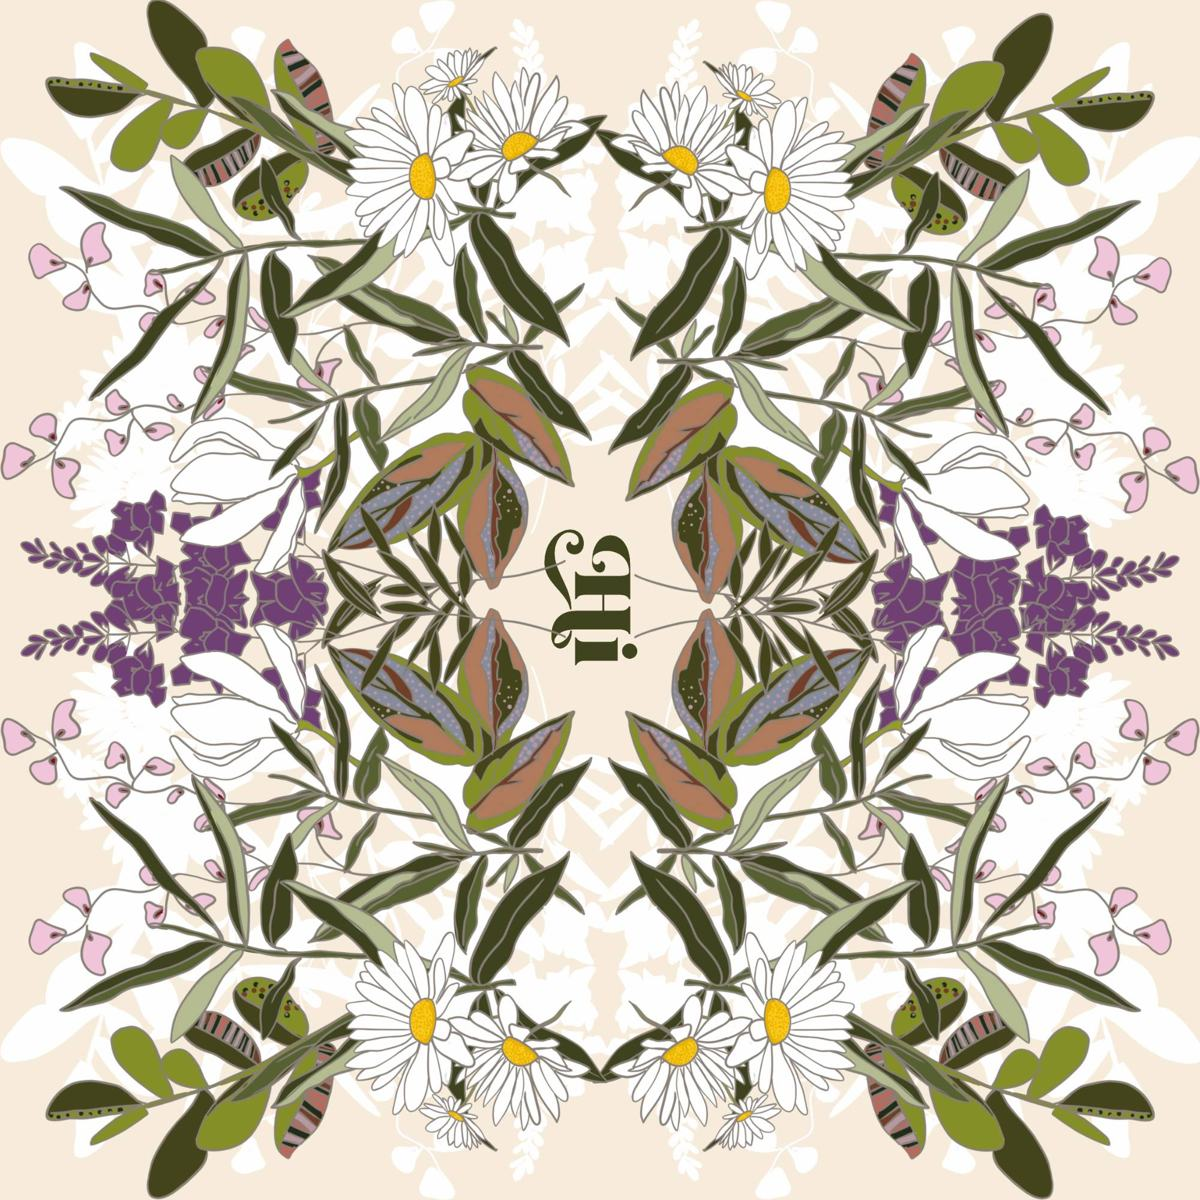
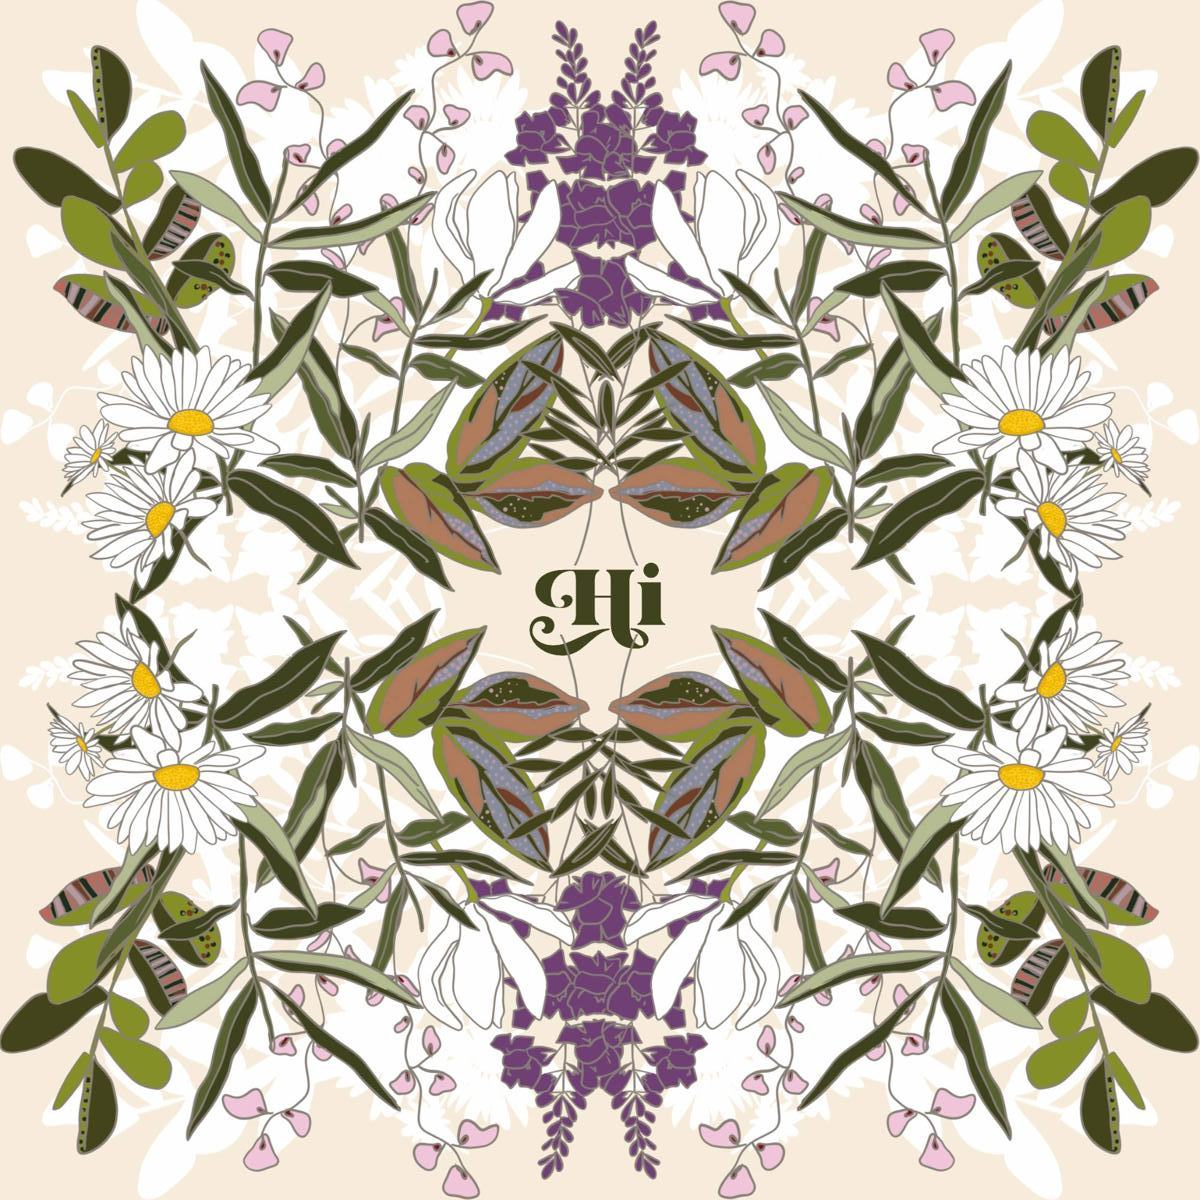
Rotar marguerites 90° a la izquierda para que el Hi quede derecho

diff --git a/index.html b/index.html
@@ -285,11 +285,11 @@
           <figcaption><strong>Fleurs batik</strong><span>Collection Hi</span></figcaption>
         </figure>
         <figure class="work reveal">
-          <img src="assets/trabajos/patterns-marguerites-lavande.jpg" alt="Marguerites &amp; lavande — Collection Hi" loading="lazy">
+          <img src="assets/trabajos/patterns-marguerites-lavande.jpg?v=2" alt="Marguerites &amp; lavande — Collection Hi" loading="lazy">
           <figcaption><strong>Marguerites &amp; lavande</strong><span>Collection Hi</span></figcaption>
         </figure>
         <figure class="work reveal">
-          <img src="assets/trabajos/patterns-marguerites-nuit.jpg" alt="Marguerites — nuit — Collection Hi" loading="lazy">
+          <img src="assets/trabajos/patterns-marguerites-nuit.jpg?v=2" alt="Marguerites — nuit — Collection Hi" loading="lazy">
           <figcaption><strong>Marguerites — nuit</strong><span>Collection Hi</span></figcaption>
         </figure>
         <figure class="work reveal">
